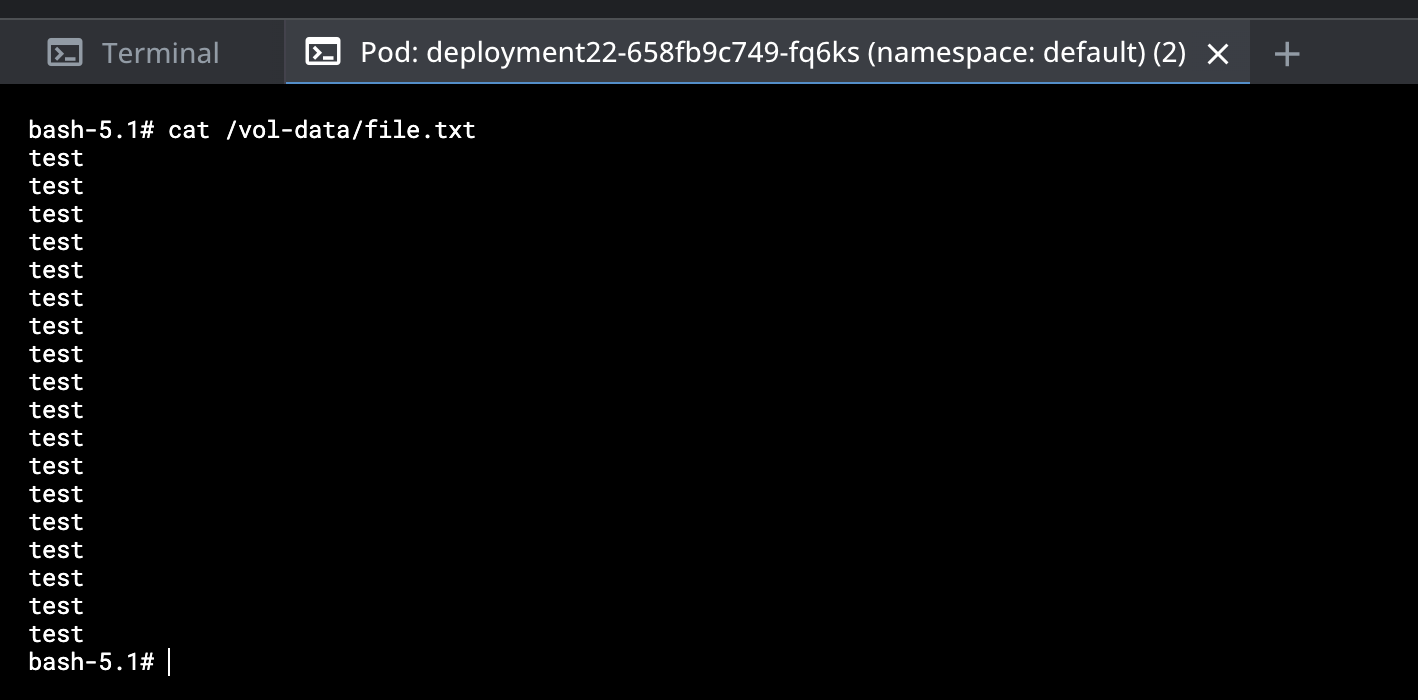
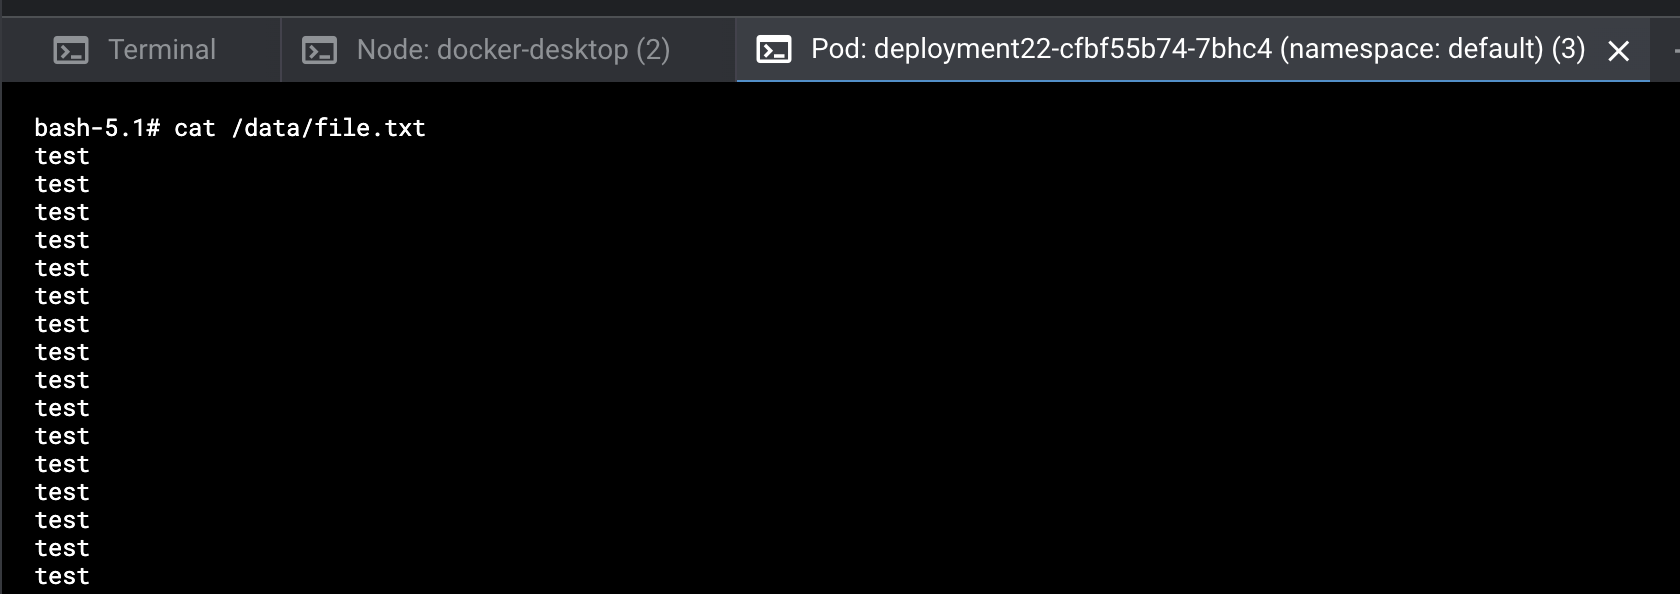
upd hw 2.2

Changed region(s): [[0.0, 0.0, 1.0, 1.0], [0.8999, 0.0, 1.0, 0.0303]]

diff --git a/2.2/README.md b/2.2/README.md
@@ -19,7 +19,7 @@
 
 ### Решение
 
-Файл с деплойментом приложения, PV и PVC: https://github.com/RamiresHab/kuber-homeworks/blob/main/2.2/deployment-2.2.yaml
+Файл с деплойментом приложения, StorageClass, PV и PVC: https://github.com/RamiresHab/kuber-homeworks/blob/main/2.2/deployment-2.2.yaml
 
 Результат выполнения команды "kubectl apply -f deployment-2.2.yaml"
 ![Alt text](image.png)
@@ -29,6 +29,10 @@
 
 Мы удалили deployment и PVC, но PV остался в статусе Released из-за persistentVolumeReclaimPolicy: Retain в манифесте PV.
 ![Alt text](image-2.png)
+
+Файл сохранился на ноде
+![Alt text](image-3.png)
+
 
 ------
 
@@ -44,6 +48,24 @@
 4. Предоставить манифесты, а также скриншоты или вывод необходимых команд.
 
 ------
+
+### Решение
+
+------
+
+Файл с деплойментом приложения, PV и PVC: https://github.com/RamiresHab/kuber-homeworks/blob/main/2.2/deployment-nfc-2.2.yaml
+
+Сервер включен
+![Alt text](image-4.png)
+![Alt text](image-6.png)
+![Alt text](image-5.png)
+
+Возможность чтения и записи изнутри пода (запись идёт контейнером busybox каждые пять секунд):
+![Alt text](image-7.png)
+
+Файл существует на ноде:
+
+![Alt text](image-8.png)
 
 ### Правила приёма работы
 
